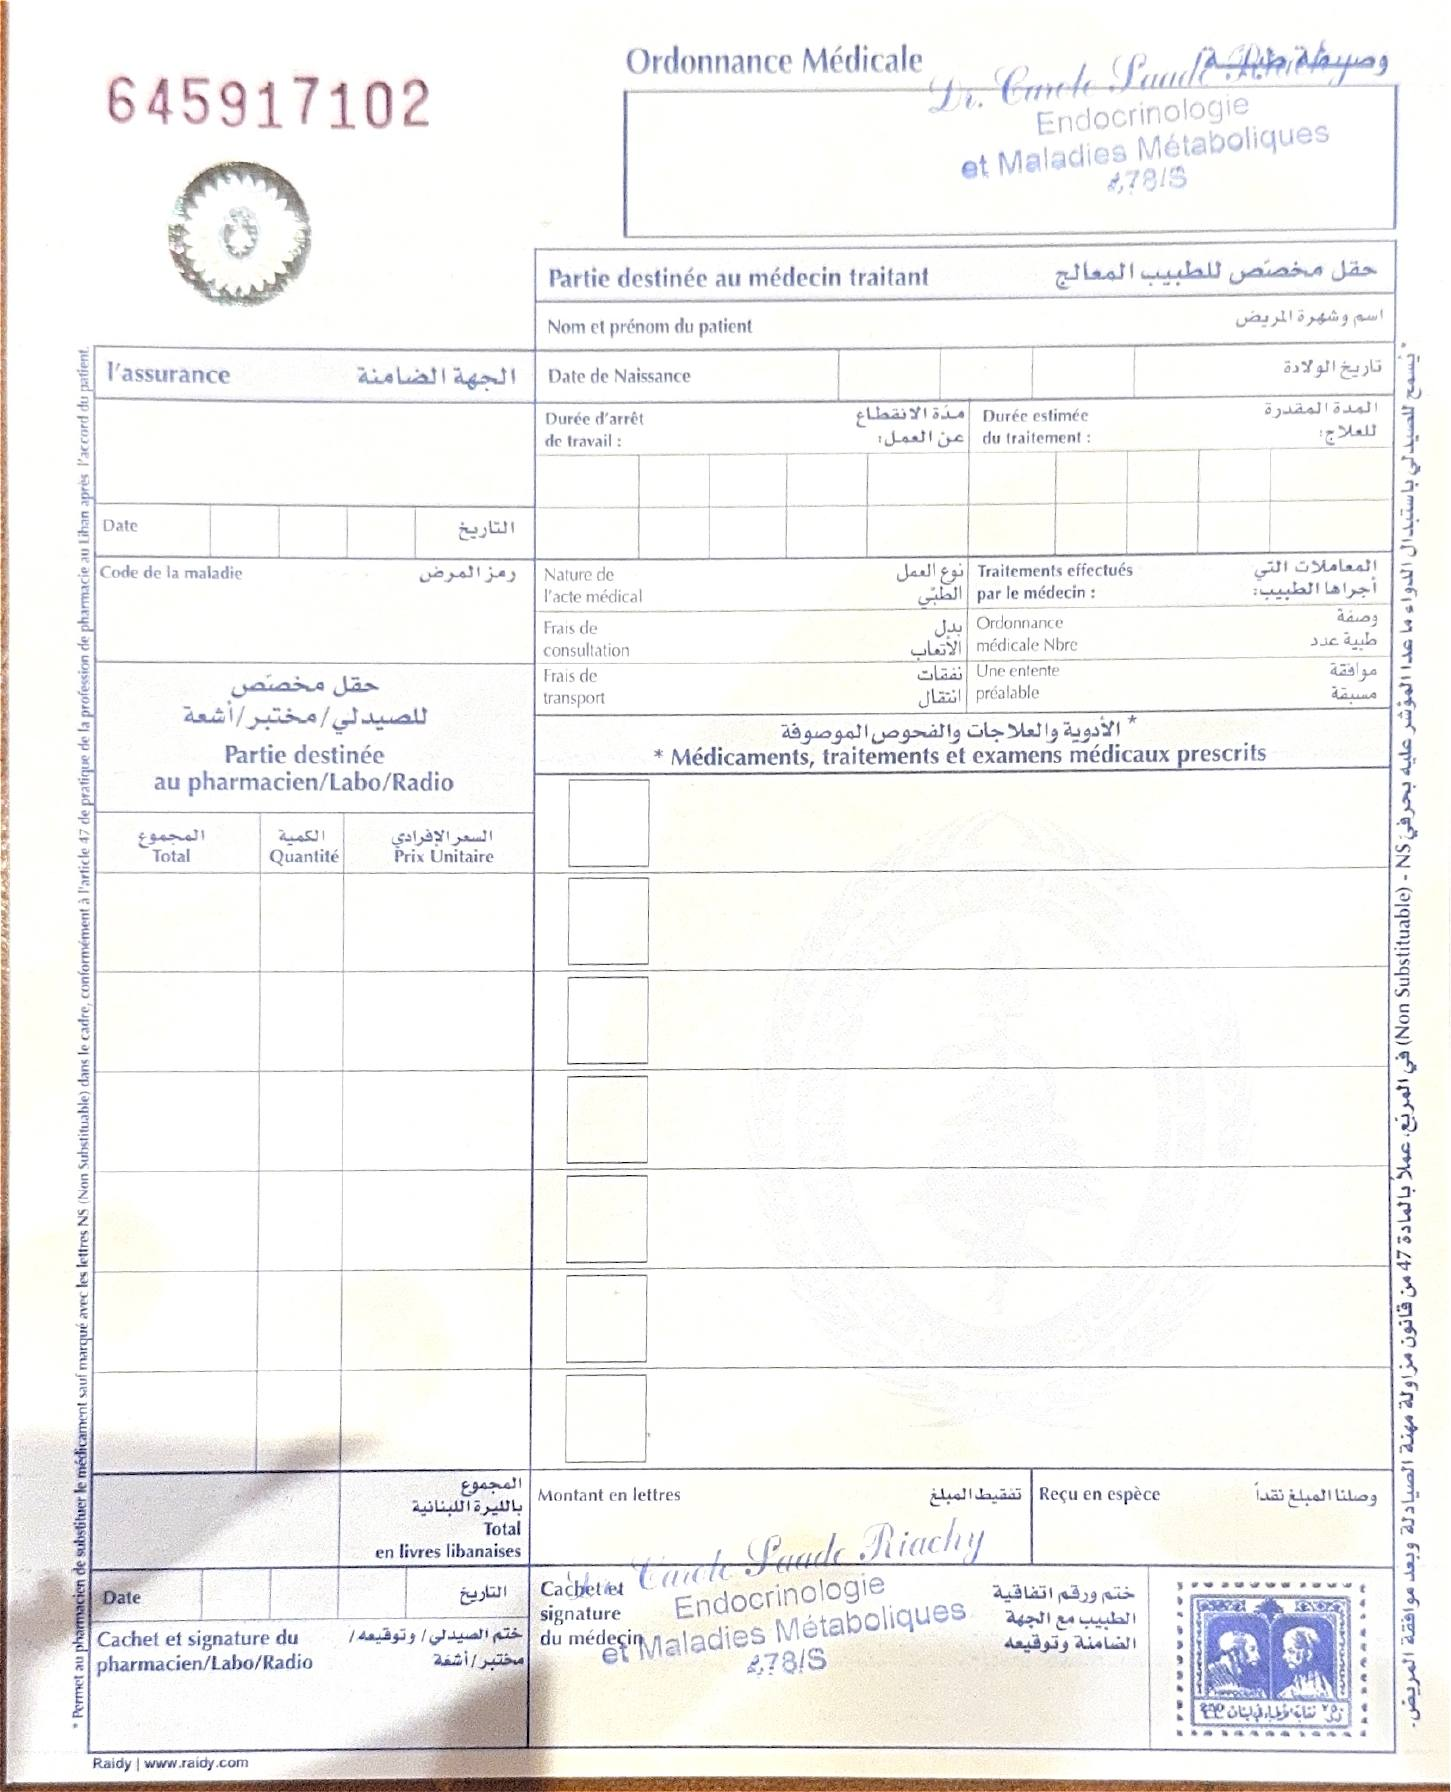
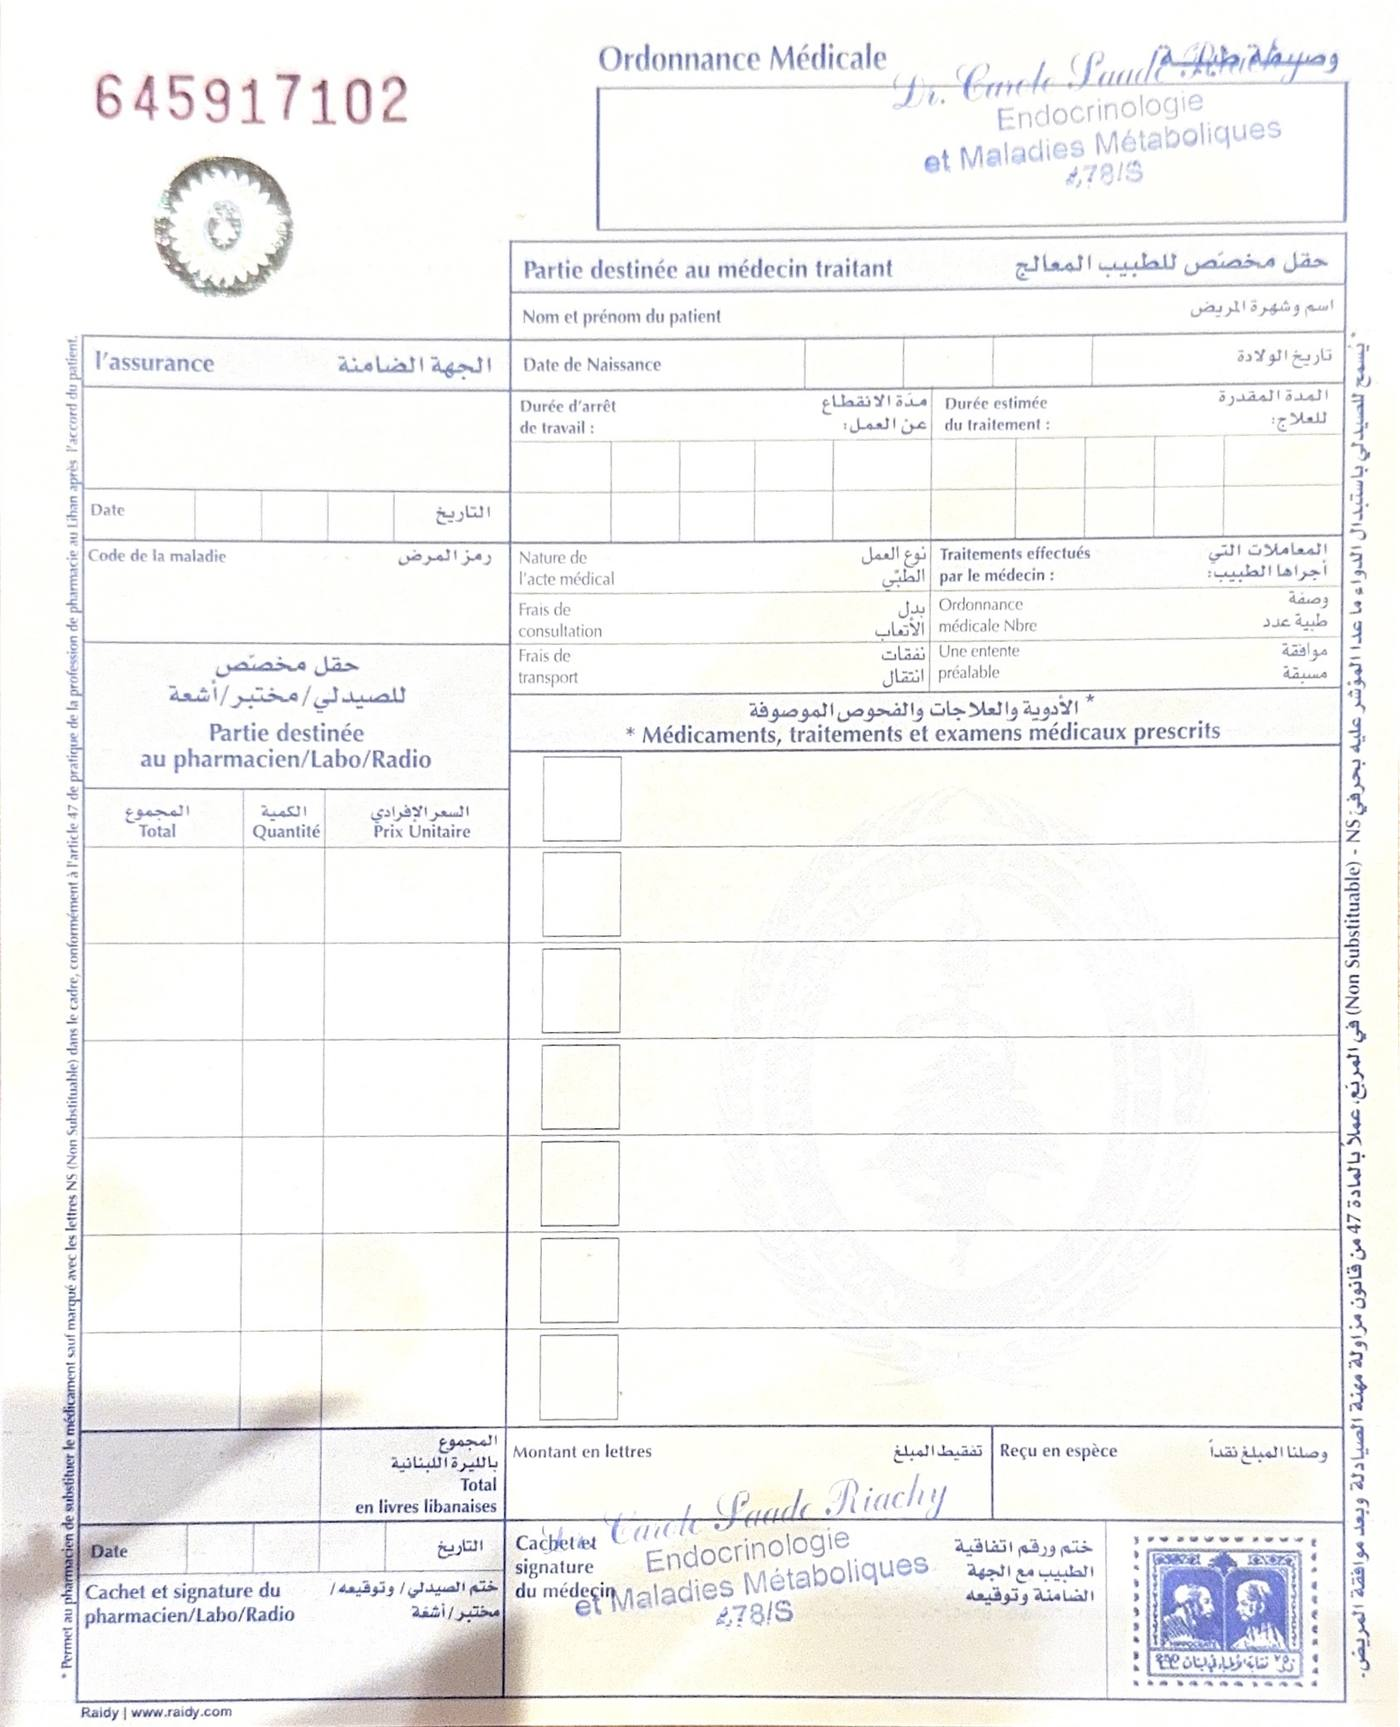
Set measured page size (151 x 182 mm) and rescale field positions
The scan is cropped to the paper edges so it maps onto the real page size.

Claude-Session: https://claude.ai/code/session_01REL97RFDPifzsnxQJ7JByo

diff --git a/js/defaults.js b/js/defaults.js
@@ -3,39 +3,39 @@
 
 const f = (id, label, x, y, w, extra = {}) => ({ id, label, kind: 'text', x, y, w, h: 6, size: 0, align: 'left', on: true, ...extra });
 
-// Positions relevées sur le scan du formulaire (photo 1684 × 2081), en supposant une page de
-// 170 × 210 mm. À confirmer avec les dimensions mesurées, puis à affiner dans la calibration.
+// Positions relevées sur le scan du formulaire, pour une page mesurée de 151 × 182 mm.
+// Le scan est une photo : prévoir quelques millimètres d'écart, à corriger dans la calibration.
 const dateParts = (from, fromLabel, xs, y, w) =>
   ['jour', 'mois', 'année'].map((p, i) =>
-    f(`${from}-${i}`, `${fromLabel} – ${p}`, xs[i], y, w, { from, fromLabel, part: i, align: 'center', h: 5.5 })
+    f(`${from}-${i}`, `${fromLabel} – ${p}`, xs[i], y, w, { from, fromLabel, part: i, align: 'center', h: 5 })
   );
 
 const fields = [
-  f('patientName', 'Nom et prénom du patient', 89, 33.5, 55),
-  ...dateParts('birthDate', 'Date de naissance', [98.5, 110.5, 121.5], 40.5, 11),
-  f('insurance', "L'assurance", 13, 49, 48),
-  ...dateParts('date', 'Date', [24.8, 32.8, 40.8], 59.5, 7.6),
-  f('diseaseCode', 'Code de la maladie', 13, 69, 48),
-  f('workStop', "Durée d'arrêt de travail", 64, 53.5, 48, { h: 5.5 }),
-  f('treatmentDuration', 'Durée estimée du traitement', 115, 53.5, 46, { h: 5.5 }),
-  f('actNature', "Nature de l'acte médical", 76, 66, 28, { h: 5.5 }),
-  f('consultFee', 'Frais de consultation', 76, 72, 28, { h: 5.5 }),
-  f('transportFee', 'Frais de transport', 76, 78, 28, { h: 5.5 }),
-  f('treatmentsDone', 'Traitements effectués par le médecin', 133, 66, 13.5, { h: 5.5 }),
-  f('ordonnanceCount', 'Ordonnance médicale Nbre', 127, 72, 25, { h: 5.5 }),
-  f('priorAgreement', 'Une entente préalable', 125, 78, 30, { h: 5.5 }),
+  f('patientName', 'Nom et prénom du patient', 78.5, 29.5, 49.0, { h: 5.0 }),
+  ...dateParts('birthDate', 'Date de naissance', [87.0, 98.0, 107.5], 35.5, 10.0),
+  f('insurance', "L'assurance", 10.5, 43.0, 43.0, { h: 5.0 }),
+  ...dateParts('date', 'Date', [21.5, 28.5, 35.5], 52.0, 7.0),
+  f('diseaseCode', 'Code de la maladie', 10.5, 60.5, 43.0, { h: 5.0 }),
+  f('workStop', "Durée d'arrêt de travail", 56.5, 46.5, 43.0, { h: 5.0 }),
+  f('treatmentDuration', 'Durée estimée du traitement', 102.0, 46.5, 41.0, { h: 5.0 }),
+  f('actNature', "Nature de l'acte médical", 67.0, 57.5, 25.0, { h: 5.0 }),
+  f('consultFee', 'Frais de consultation', 67.0, 63.0, 25.0, { h: 5.0 }),
+  f('transportFee', 'Frais de transport', 67.0, 68.0, 25.0, { h: 5.0 }),
+  f('treatmentsDone', 'Traitements effectués par le médecin', 118.0, 57.5, 12.0, { h: 5.0 }),
+  f('ordonnanceCount', 'Ordonnance médicale Nbre', 112.5, 63.0, 22.5, { h: 5.0 }),
+  f('priorAgreement', 'Une entente préalable', 111.0, 68.0, 27.0, { h: 5.0 }),
 ];
 // 7 lignes de prescription : case NS à gauche, texte sur deux lignes possibles.
-[90.8, 101.5, 113.2, 125, 136.5, 148.3, 160].forEach((top, i) => {
-  fields.push(f('ns' + (i + 1), 'NS ' + (i + 1), 66.5, top + 0.5, 9.5, { kind: 'ns', align: 'center', h: 10, size: 14 }));
-  fields.push(f('med' + (i + 1), 'Médicament ' + (i + 1), 78, top + 1, 84, { kind: 'med', h: 9.5, wrap: true }));
+[79.5, 88.5, 99.0, 109.0, 119.0, 129.5, 140.0].forEach((top, i) => {
+  fields.push(f('ns' + (i + 1), 'NS ' + (i + 1), 58.5, top + 0.5, 8.5, { kind: 'ns', align: 'center', h: 8.5, size: 13 }));
+  fields.push(f('med' + (i + 1), 'Médicament ' + (i + 1), 69.0, top + 0.5, 75.0, { kind: 'med', h: 9, wrap: true }));
 });
-fields.push(f('amountLetters', 'Montant en lettres', 64, 176.5, 55, { h: 6 }));
+fields.push(f('amountLetters', 'Montant en lettres', 56.5, 154, 49, { h: 5 }));
 
 export const DEFAULT_SCAN = 'assets/formulaire.jpg';
 
 export const DEFAULT_LAYOUT = {
-  page: { w: 170, h: 210 }, // estimation d'après les proportions du scan — à remplacer par la mesure réelle
+  page: { w: 151, h: 182 }, // mesuré à la règle : 15,1 × 18,2 cm
   offset: { dx: 0, dy: 0 }, // décalage global (calibration de l'imprimante)
   fields,
 };
@@ -44,7 +44,7 @@ export const DEFAULT_SETTINGS = {
   printerType: 'inkjet', // 'inkjet' (jet d'encre / laser) ou 'impact' (matricielle)
   copies: 3, // pour jet d'encre / laser : un passage par feuillet
   fontFamily: 'Arial, Helvetica, sans-serif',
-  fontSize: 10.5,
+  fontSize: 10,
   minFontSize: 7.5,
   autoLockMin: 10,
   scanOpacity: 0.85,

diff --git a/README.md b/README.md
@@ -34,7 +34,7 @@ The interface is in French. No build step, no dependencies: plain HTML/CSS/JS.
 
 1. Open the app and choose *Créer mon accès* (e-mail + password, 10+ characters).
 2. *Réglages › Calibration*:
-   - enter the form's real width and height in mm (measured with a ruler);
+   - the page size is preset to 151 × 182 mm; change it if your forms differ;
    - check each box against the scan and drag it if needed, then *Enregistrer*.
 3. *Imprimer un test* on plain paper, hold it against a real form in front of a
    window, and use the global offset arrows until it lines up.
@@ -42,9 +42,9 @@ The interface is in French. No build step, no dependencies: plain HTML/CSS/JS.
    **Headers and footers off**, paper size = the form.
 
 > The default positions in `js/defaults.js` were read off the scan in
-> `assets/formulaire.jpg`, assuming a 170 × 210 mm page (the scan's proportions).
-> The scan is a phone photo, so expect a few millimetres of error until the real
-> page size is entered and a test print has been checked against a form.
+> `assets/formulaire.jpg`, for the measured page size of 151 × 182 mm.
+> The scan is a phone photo, so expect a few millimetres of error until a test
+> print has been checked against a form.
 >
 > `assets/formulaire.jpg` shows the doctor's stamp and one form's serial number,
 > and is publicly downloadable from wherever the app is hosted. Replace it with a
